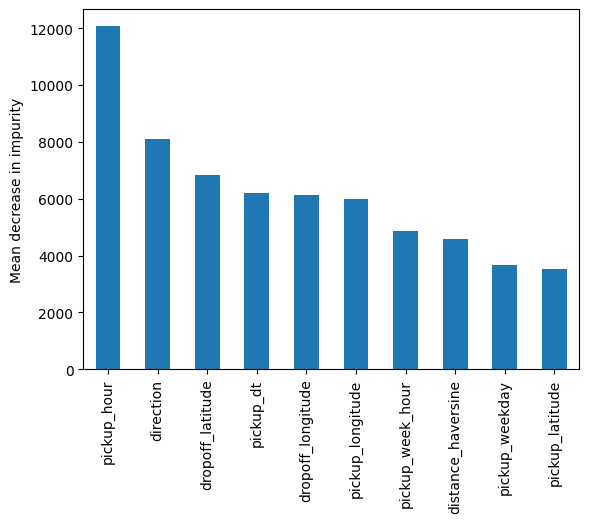
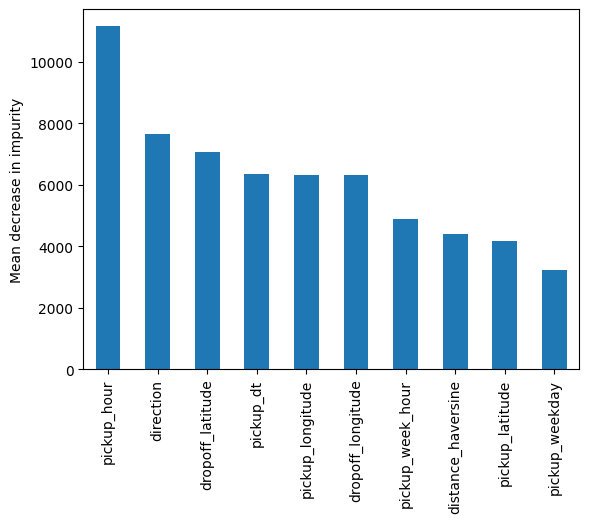
add mlflow remote server

diff --git a/src/models/train_model.py b/src/models/train_model.py
@@ -8,14 +8,18 @@
     only once after getting 5 best model on 1st test dataset. Also, use recall and accuracy as metrics for 1st
     test dataset, but for 2nd and 3rd test dataset use only roc as metric.
 """
+# Temporarily hide MLflow from Python's import system so that LazyPredict will fail to find MLflow and disable tracking gracefully.
+# Restore MLflow so the rest of your script can use it normally
+import sys
+sys.modules['mlflow'] = None
 from lazypredict.Supervised import LazyClassifier, LazyRegressor, CLASSIFIERS, REGRESSORS
+del sys.modules['mlflow']
+
+import pathlib, sys, joblib, mlflow, warnings, yaml, mlflow.sklearn, mlflow.catboost, mlflow.xgboost, mlflow.lightgbm
 from sklearn.model_selection import train_test_split, cross_val_score
 from sklearn.metrics import mean_squared_error, accuracy_score
 from hyperopt import fmin, tpe, Trials, STATUS_OK, space_eval
-import pathlib, sys, joblib, mlflow, warnings, yaml
-
 from hyperparameters import get_search_space
-import mlflow.sklearn
 import pandas as pd
 
 sys.path.append(str(pathlib.Path(__file__).resolve().parents[2]))
@@ -53,8 +57,20 @@ def find_best_model_with_params(X_train : pd.DataFrame, y_train : pd.Series, X_t
                 mlflow.log_metric('Accuracy', accuracy_score(y_test, y_pred))
             else:
                 mlflow.log_metric('RMSE', mean_squared_error(y_test, y_pred) ** 0.5)
-                
-            mlflow.sklearn.log_model(model, 'model')
+
+            # To log the model in mlflow
+            if 'XGB' in best_model_name:
+                mlflow.xgboost.log_model(model, 'model')
+            elif 'LGBM' in best_model_name:
+                mlflow.lightgbm.log_model(model, 'model')
+            elif 'CatBoost' in best_model_name:
+                mlflow.catboost.log_model(model, 'model')
+            else: # Fallback for RandomForest, Ridge, SVC, LogisticRegression, etc.
+                mlflow.sklearn.log_model(model, 'model')
+            
+            mlflow.set_tag("model_type", best_model_name) # To log the model type as tag in mlflow
+            mlflow.set_tag("author", "Vivek Kumar")
+            mlflow.set_tag("target_type", "classification" if is_classification else "regression")
             
         return model
         
@@ -79,7 +95,7 @@ def find_best_model_with_params(X_train : pd.DataFrame, y_train : pd.Series, X_t
                 
             return {'loss': loss, 'status': STATUS_OK}
 
-        with mlflow.start_run(run_name=f'{best_model_name}_Tuning'):
+        with mlflow.start_run(run_name=f'{best_model_name}_Tuning', nested=True):
             argmin = fmin(
                 fn=objective,
                 space=space,
@@ -112,7 +128,9 @@ def find_best_model_with_params(X_train : pd.DataFrame, y_train : pd.Series, X_t
         return model
 
 def save_model(model : object, output_path : str) -> None:
-    # Save the trained model to the specified output path
+    """
+        Save the trained model to the specified output path
+    """
     joblib.dump(model, output_path + "/model.joblib")
 
 def main() -> None:
@@ -127,7 +145,11 @@ def main() -> None:
     output_path_str = output_path.as_posix()
     pathlib.Path(output_path_str).mkdir(parents=True, exist_ok=True)
 
-    mlflow.set_experiment("Experiment_Trip_Duration_Prediction")
+    # mlflow.autolog(disable=True) # Disable autologging to have more control over what gets logged in mlflow and when.
+    # mlflow.sklearn.autolog(disable=True) # same can be done for specific library like xgboost, xgboost, statsmodels, lightgbm etc.
+
+    mlflow.set_tracking_uri("http://34.131.126.24:5000/")
+    mlflow.set_experiment("Trip_Duration_Prediction")
     TARGET = params['target']
 
     train_features = pd.read_csv(data_path_str + "/train_processed.csv")

diff --git a/src/visualization/visualize.py b/src/visualization/visualize.py
@@ -1,7 +1,8 @@
 from sklearn.model_selection import train_test_split
 import sys, pathlib, joblib, mlflow, yaml
 import matplotlib.pyplot as plt
-from sklearn.metrics import precision_score, recall_score, roc_auc_score, accuracy_score, mean_squared_error, r2_score, average_precision_score, ConfusionMatrixDisplay
+import seaborn as sns
+from sklearn.metrics import precision_score, recall_score, roc_auc_score, accuracy_score, mean_squared_error, r2_score, average_precision_score, ConfusionMatrixDisplay, confusion_matrix
 import pandas as pd
 
 sys.path.append(str(pathlib.Path(__file__).resolve().parents[2]))
@@ -23,6 +24,7 @@ def save_importance_plot(model : object, feature_names : list, output_dir : str)
     plot_path = output_dir / "feature_importance.png"
     fig.savefig(plot_path, bbox_inches='tight')
     mlflow.log_artifact(plot_path.as_posix())
+    mlflow.log_artifact(__file__) # To log the source code to the mlflow
 
 def main() -> None:
 
@@ -38,7 +40,12 @@ def main() -> None:
     output_dir = pathlib.Path(sys.argv[3])
     output_dir.mkdir(exist_ok=True)
 
-    mlflow.set_experiment("Experiment_Trip_Duration_Prediction")
+    mlflow.set_tracking_uri("http://34.131.126.24:5000/")
+    mlflow.set_experiment("Trip_Duration_Prediction")
+
+    mlflow.autolog(disable=True)
+    mlflow.sklearn.autolog(disable=True)
+
     TARGET = params['target']
 
     model = joblib.load(model_file)
@@ -71,7 +78,17 @@ def main() -> None:
             cm_path = output_dir / "confusion_matrix.png"
             fig.savefig(cm_path, bbox_inches='tight')
             mlflow.log_artifact(cm_path.as_posix())
-            
+
+            # cm = confusion_matrix(y_test, y_pred)
+            # plt.figure(figsize=(6, 6))
+            # sns.heatmap(cm, annot=True, fmt='d', cmap='Blues', xticklabels=['Predicted 0', 'Predicted 1'], yticklabels=['Actual 0', 'Actual 1'])
+            # plt.ylabel('Actual')
+            # plt.xlabel('Predicted')
+            # plt.title('Confusion Matrix Heatmap')
+            # cm_path = output_dir / "confusion_matrix_heatmap.png"
+            # plt.savefig(cm_path, bbox_inches='tight')
+            # mlflow.log_artifact(cm_path.as_posix())
+
         else:
             rmse = mean_squared_error(y_test, y_pred) ** 0.5
             r2 = r2_score(y_test, y_pred)